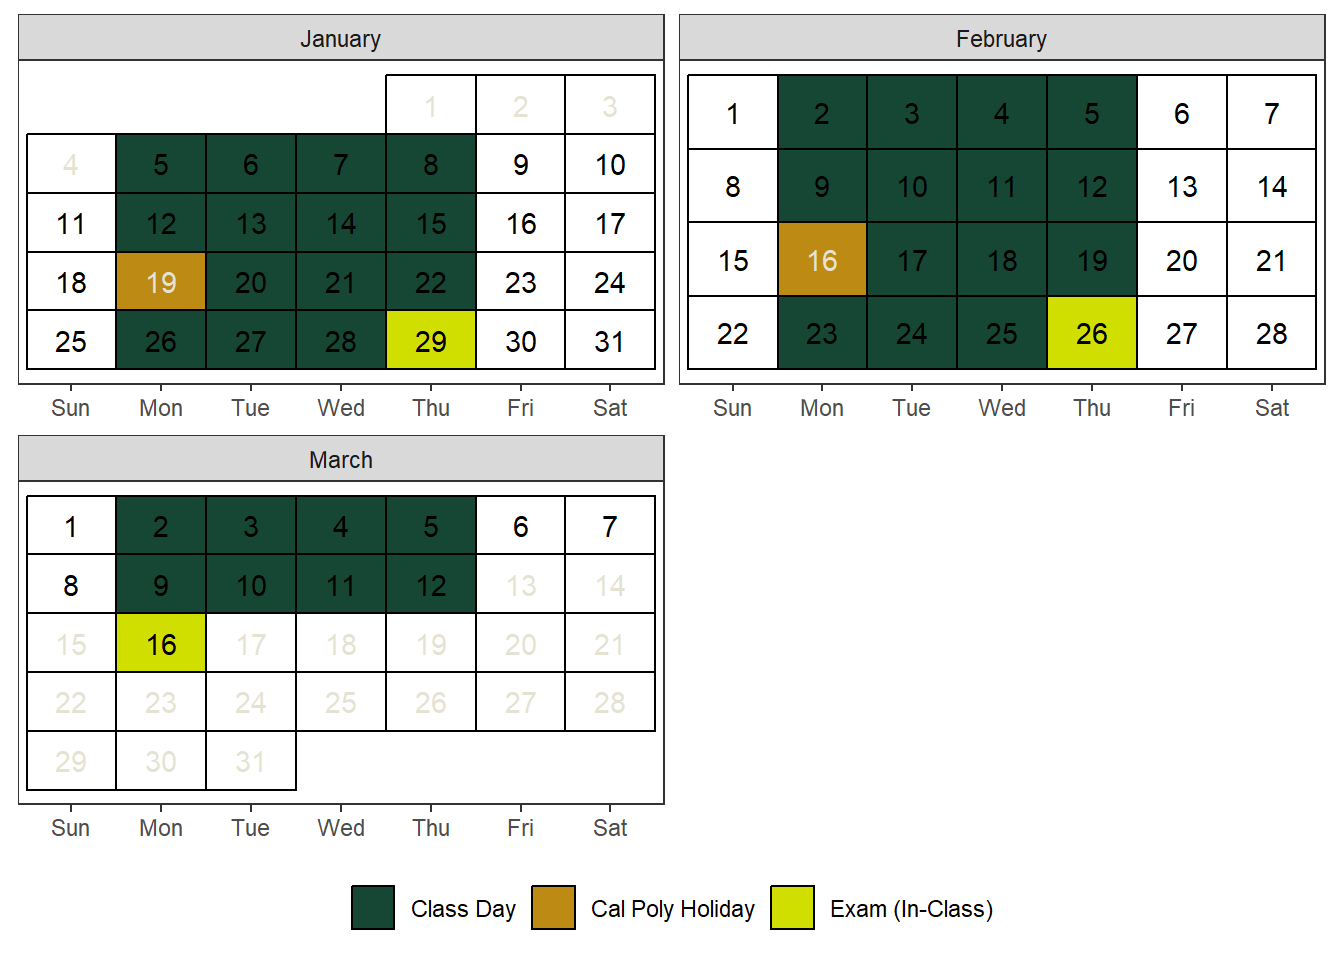
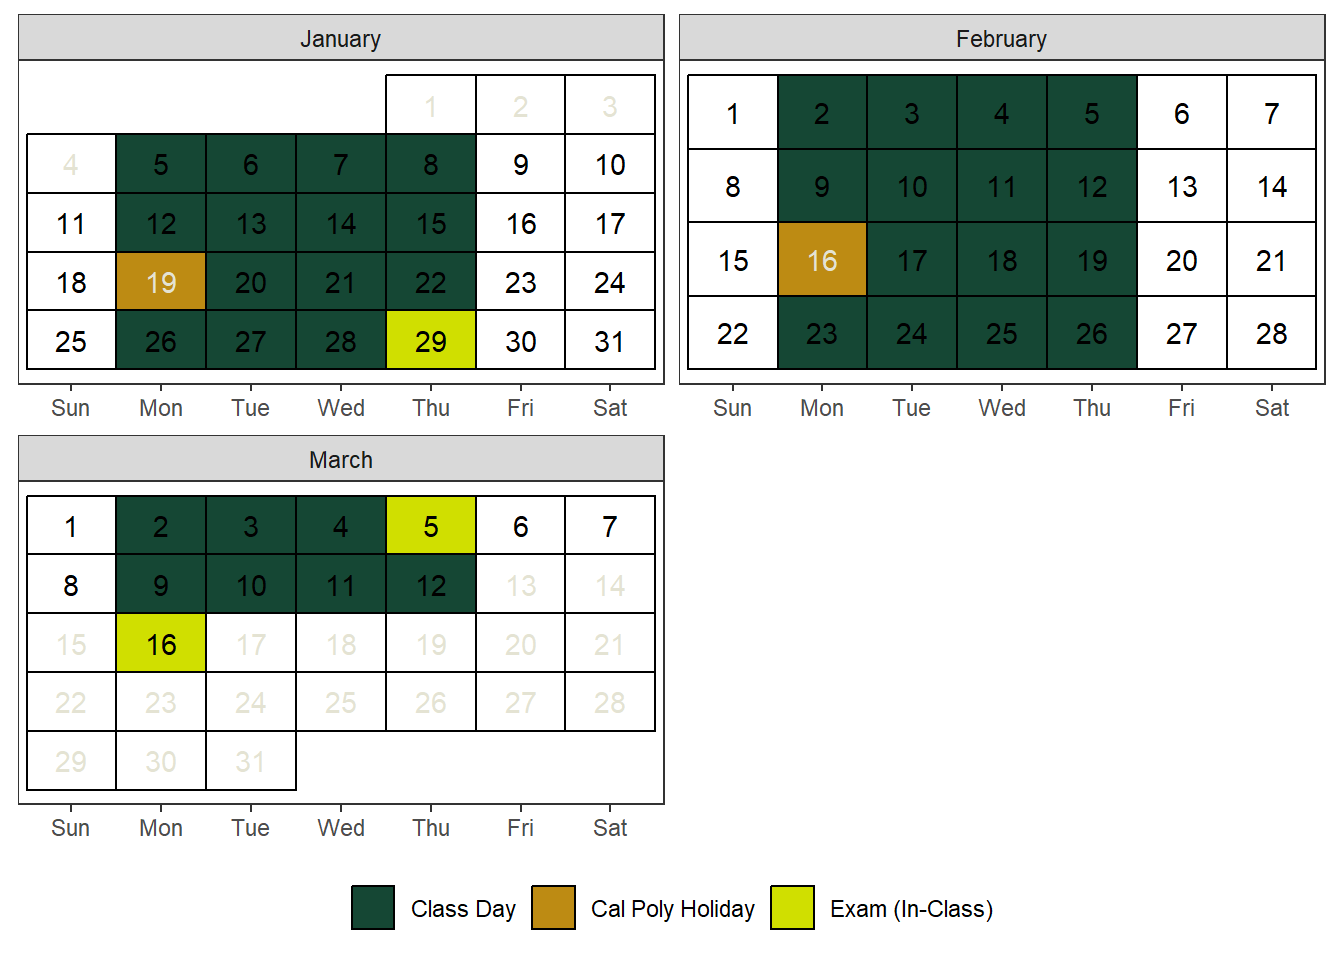
Exam date updates

Changed region(s): [[0.2812, 0.5, 0.375, 0.5938], [0.7812, 0.3125, 0.8438, 0.4062]]

diff --git a/docs/course-info.html b/docs/course-info.html
@@ -524,8 +524,8 @@ Points
 <p>Exams are to be taken without the use of textbooks or notes. It is expected that you will take exams as per the scheduled times. In cases of extraordinary circumstances like illness, a family loss, please inform me before the examination.</p>
 <p>You won’t be required to computer for the exams, but you may see some questions that involve filling in missing information, interpreting provided R outputs, or selecting the appropriate code to complete a task.</p>
 <p><strong>Thu, Jan 29:</strong> Midterm I</p>
-<p><strong>Thu, Feb 26:</strong> Midterm II</p>
-<p><strong>Mon, Mar 16:</strong> Final Exam TBD</p>
+<p><strong>Thu, Mar 05:</strong> Midterm II</p>
+<p><strong>Mon, Mar 16:</strong> Final Exam - BLDG 033-0286</p>
 <div class="callout callout-style-default callout-important callout-titled">
 <div class="callout-header d-flex align-content-center">
 <div class="callout-icon-container">
